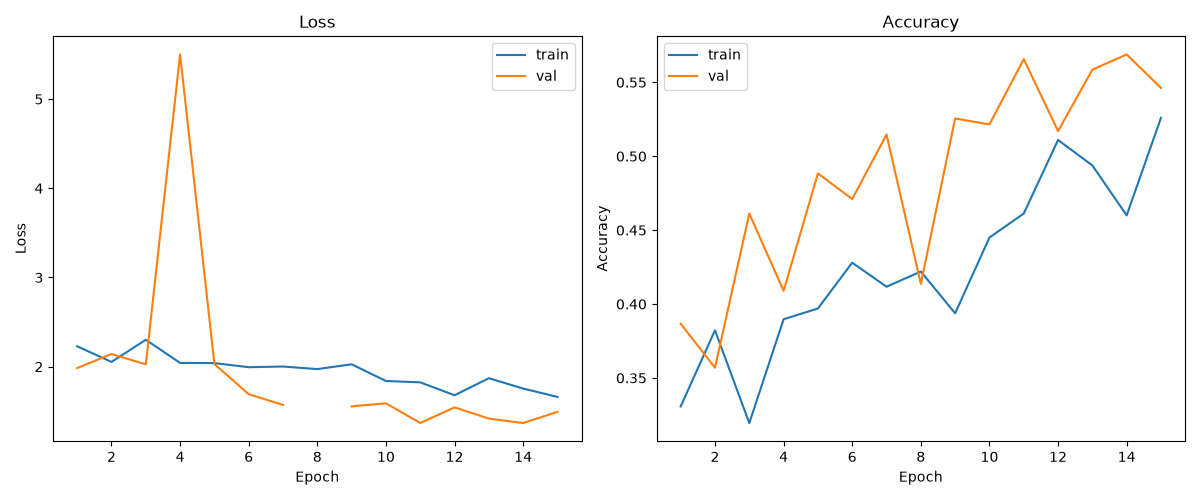
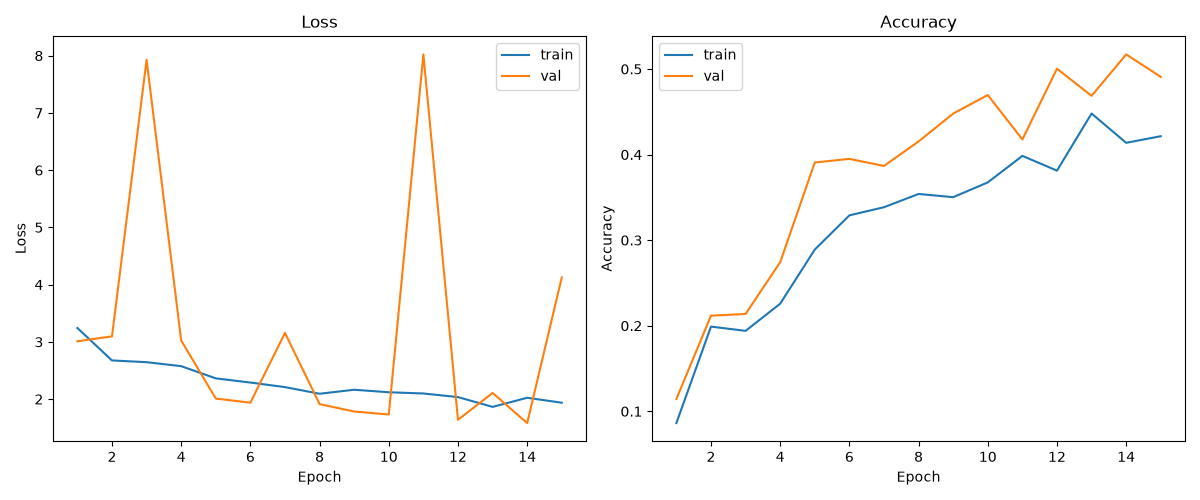
convnext training.

diff --git a/submissions/my_team/self_evaluation.py b/submissions/my_team/self_evaluation.py
@@ -26,6 +26,9 @@ from sklearn.metrics import confusion_matrix
 from tqdm import tqdm
 import seaborn as sns
 
+NUM_WORKERS = os.cpu_count() // 2
+PIN_MEMORY = torch.cuda.is_available() or torch.backends.mps.is_available()
+
 SCRIPT_DIR = Path(__file__).resolve().parent
 PROJECT_ROOT = SCRIPT_DIR.parents[1]
 sys.path.insert(0, str(PROJECT_ROOT))
@@ -114,17 +117,27 @@ class ImageNetSubset(Dataset):
 # ── transforms & loaders ──────────────────────────────────────────────────────
 
 def load_evaluation_suites():
-    """
-    בונה מילון של DataLoaders עבור כל סוגי מבחני הלחץ שהוגדרו.
-    """
-    print("Preparing evaluation suites...")
+    print(f"Preparing evaluation suites (Workers: {NUM_WORKERS}, Pin Memory: {PIN_MEMORY})...")
+    
+    # פונקציית עזר קטנה כדי לא לשכפל את כל הפרמטרים
+    def make_loader(transform, shuffle=False):
+        dataset = ImageNetSubset(DATA_ROOT, transform=transform)
+        return DataLoader(
+            dataset, 
+            batch_size=BATCH_SIZE, 
+            shuffle=shuffle, 
+            num_workers=NUM_WORKERS,
+            pin_memory=PIN_MEMORY,
+            persistent_workers=True if NUM_WORKERS > 0 else False # שומר את התהליכים חיים בין באצ'ים
+        )
+
     suites = {
-        "Base (Clean)  ": DataLoader(ImageNetSubset(DATA_ROOT, transform=build_eval_transforms()), batch_size=BATCH_SIZE, shuffle=False),
-        "Geometric     ": DataLoader(ImageNetSubset(DATA_ROOT, transform=build_geometric_stress_transforms()), batch_size=BATCH_SIZE, shuffle=False),
-        "Color/Photo   ": DataLoader(ImageNetSubset(DATA_ROOT, transform=build_color_stress_transforms()), batch_size=BATCH_SIZE, shuffle=False),
-        "Noise/Occlude ": DataLoader(ImageNetSubset(DATA_ROOT, transform=build_noise_stress_transforms()), batch_size=BATCH_SIZE, shuffle=False),
-        "AutoAugment   ": DataLoader(ImageNetSubset(DATA_ROOT, transform=build_auto_transforms()), batch_size=BATCH_SIZE, shuffle=False), # הסט המבוסס RandAugment שהוספת
-        "Ultimate Combo": DataLoader(ImageNetSubset(DATA_ROOT, transform=build_stress_transforms()), batch_size=BATCH_SIZE, shuffle=True) # Shuffle for visuals
+        "Base (Clean)  ": make_loader(build_eval_transforms(), shuffle=False),
+        "Geometric     ": make_loader(build_geometric_stress_transforms(), shuffle=False),
+        "Color/Photo   ": make_loader(build_color_stress_transforms(), shuffle=False),
+        "Noise/Occlude ": make_loader(build_noise_stress_transforms(), shuffle=False),
+        "AutoAugment   ": make_loader(build_auto_transforms(), shuffle=False),
+        "Ultimate Combo": make_loader(build_stress_transforms(), shuffle=True)
     }
     
     for name, loader in suites.items():

diff --git a/submissions/my_team/train.py b/submissions/my_team/train.py
@@ -30,8 +30,9 @@ TRAIN_SPLIT = "train_split"
 VAL_SPLIT = "val_split"
 
 BATCH_SIZE = 192
-EPOCHS = 15
+EPOCHS = 50
 LEARNING_RATE = 1e-3
+WEIGHT_DECAY = 1e-4
 NUM_WORKERS = min(8, os.cpu_count() or 1)
 
 DEVICE = torch.device(
@@ -139,7 +140,7 @@ def main():
         print(f"Resumed weights from {OUTPUT}")
 
     criterion = nn.CrossEntropyLoss()
-    optimizer = torch.optim.Adam(model.parameters(), lr=LEARNING_RATE)
+    optimizer = torch.optim.AdamW(model.parameters(), lr=LEARNING_RATE, weight_decay=WEIGHT_DECAY)
     scaler = torch.amp.GradScaler(device=DEVICE.type, enabled=DEVICE.type == "cuda")
     scheduler = torch.optim.lr_scheduler.ReduceLROnPlateau(optimizer, mode="min", factor=0.5, patience=2)
 